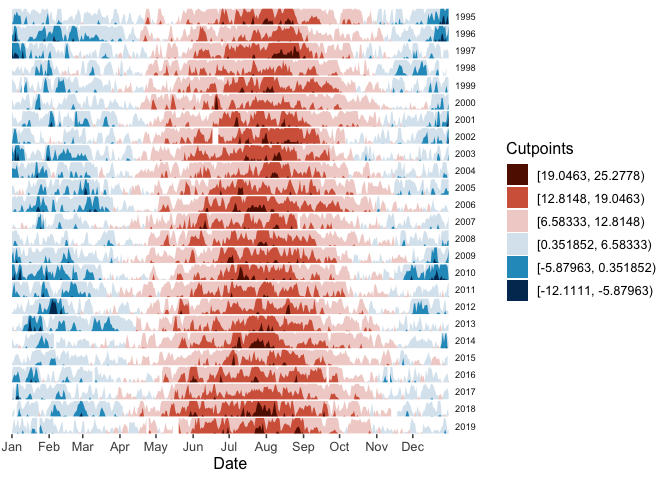
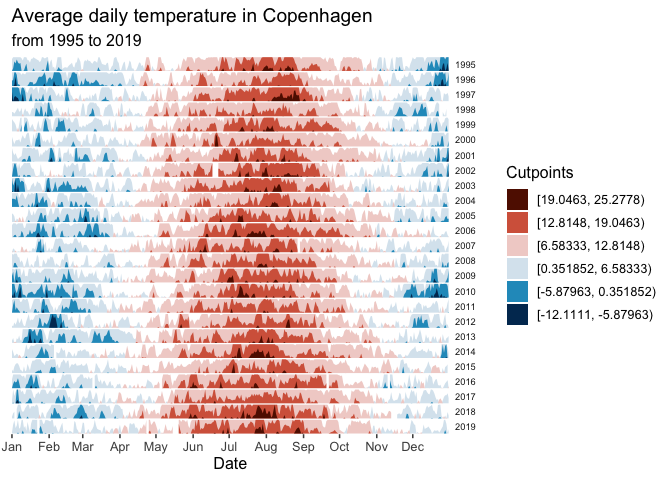
Add links to other vignettes in readme

diff --git a/docs/index.html b/docs/index.html
@@ -97,33 +97,38 @@
 <div id="basic-example" class="section level2">
 <h2 class="hasAnchor">
 <a href="#basic-example" class="anchor"></a>Basic example</h2>
+<p>Load the libraries:</p>
 <div class="sourceCode" id="cb2"><pre class="downlit sourceCode r">
 <code class="sourceCode R"><span class="kw"><a href="https://rdrr.io/r/base/library.html">library</a></span><span class="op">(</span><span class="va"><a href="https://tidyverse.tidyverse.org">tidyverse</a></span><span class="op">)</span>
-<span class="co">#&gt; ── Attaching packages ─────────────────────────────────────── tidyverse 1.3.1 ──</span>
-<span class="co">#&gt; ✓ ggplot2 3.3.5     ✓ purrr   0.3.4</span>
-<span class="co">#&gt; ✓ tibble  3.1.4     ✓ dplyr   1.0.5</span>
-<span class="co">#&gt; ✓ tidyr   1.1.3     ✓ stringr 1.4.0</span>
-<span class="co">#&gt; ✓ readr   2.0.1     ✓ forcats 0.5.1</span>
-<span class="co">#&gt; ── Conflicts ────────────────────────────────────────── tidyverse_conflicts() ──</span>
-<span class="co">#&gt; x dplyr::filter() masks stats::filter()</span>
-<span class="co">#&gt; x dplyr::lag()    masks stats::lag()</span>
 <span class="kw"><a href="https://rdrr.io/r/base/library.html">library</a></span><span class="op">(</span><span class="va"><a href="https://rivasiker.github.io/ggHoriPlot/">ggHoriPlot</a></span><span class="op">)</span> 
-<span class="kw"><a href="https://rdrr.io/r/base/library.html">library</a></span><span class="op">(</span><span class="va"><a href="https://github.com/jrnold/ggthemes">ggthemes</a></span><span class="op">)</span>
-
-<span class="fu">utils</span><span class="fu">::</span><span class="fu"><a href="https://rdrr.io/r/utils/data.html">data</a></span><span class="op">(</span><span class="va">climate_CPH</span><span class="op">)</span>
+<span class="kw"><a href="https://rdrr.io/r/base/library.html">library</a></span><span class="op">(</span><span class="va"><a href="https://github.com/jrnold/ggthemes">ggthemes</a></span><span class="op">)</span></code></pre></div>
+<p>Load the dataset and calculate the cutpoints and origin:</p>
+<div class="sourceCode" id="cb3"><pre class="downlit sourceCode r">
+<code class="sourceCode R"><span class="fu">utils</span><span class="fu">::</span><span class="fu"><a href="https://rdrr.io/r/utils/data.html">data</a></span><span class="op">(</span><span class="va">climate_CPH</span><span class="op">)</span>
 
 <span class="va">cutpoints</span> <span class="op">&lt;-</span> <span class="va">climate_CPH</span>  <span class="op">%&gt;%</span> 
   <span class="fu">mutate</span><span class="op">(</span>
     outlier <span class="op">=</span> <span class="fu">between</span><span class="op">(</span>
       <span class="va">AvgTemperature</span>, 
-      <span class="fu"><a href="https://rdrr.io/r/stats/quantile.html">quantile</a></span><span class="op">(</span><span class="va">AvgTemperature</span>, <span class="fl">0.25</span>, na.rm<span class="op">=</span><span class="cn">T</span><span class="op">)</span><span class="op">-</span><span class="fl">1.5</span><span class="op">*</span><span class="fu"><a href="https://rdrr.io/r/stats/IQR.html">IQR</a></span><span class="op">(</span><span class="va">AvgTemperature</span>, na.rm<span class="op">=</span><span class="cn">T</span><span class="op">)</span>,
-      <span class="fu"><a href="https://rdrr.io/r/stats/quantile.html">quantile</a></span><span class="op">(</span><span class="va">AvgTemperature</span>, <span class="fl">0.75</span>, na.rm<span class="op">=</span><span class="cn">T</span><span class="op">)</span><span class="op">+</span><span class="fl">1.5</span><span class="op">*</span><span class="fu"><a href="https://rdrr.io/r/stats/IQR.html">IQR</a></span><span class="op">(</span><span class="va">AvgTemperature</span>, na.rm<span class="op">=</span><span class="cn">T</span><span class="op">)</span><span class="op">)</span><span class="op">)</span> <span class="op">%&gt;%</span> 
+      <span class="fu"><a href="https://rdrr.io/r/stats/quantile.html">quantile</a></span><span class="op">(</span><span class="va">AvgTemperature</span>, <span class="fl">0.25</span>, na.rm<span class="op">=</span><span class="cn">T</span><span class="op">)</span><span class="op">-</span>
+        <span class="fl">1.5</span><span class="op">*</span><span class="fu"><a href="https://rdrr.io/r/stats/IQR.html">IQR</a></span><span class="op">(</span><span class="va">AvgTemperature</span>, na.rm<span class="op">=</span><span class="cn">T</span><span class="op">)</span>,
+      <span class="fu"><a href="https://rdrr.io/r/stats/quantile.html">quantile</a></span><span class="op">(</span><span class="va">AvgTemperature</span>, <span class="fl">0.75</span>, na.rm<span class="op">=</span><span class="cn">T</span><span class="op">)</span><span class="op">+</span>
+        <span class="fl">1.5</span><span class="op">*</span><span class="fu"><a href="https://rdrr.io/r/stats/IQR.html">IQR</a></span><span class="op">(</span><span class="va">AvgTemperature</span>, na.rm<span class="op">=</span><span class="cn">T</span><span class="op">)</span><span class="op">)</span><span class="op">)</span> <span class="op">%&gt;%</span> 
   <span class="fu"><a href="https://rdrr.io/r/stats/filter.html">filter</a></span><span class="op">(</span><span class="va">outlier</span><span class="op">)</span>
 
-<span class="va">ori</span> <span class="op">=</span> <span class="fu"><a href="https://rdrr.io/r/base/sum.html">sum</a></span><span class="op">(</span><span class="fu"><a href="https://rdrr.io/r/base/range.html">range</a></span><span class="op">(</span><span class="va">cutpoints</span><span class="op">$</span><span class="va">AvgTemperature</span><span class="op">)</span><span class="op">)</span><span class="op">/</span><span class="fl">2</span>
-<span class="va">sca</span> <span class="op">&lt;-</span> <span class="fu"><a href="https://rdrr.io/r/base/seq.html">seq</a></span><span class="op">(</span><span class="fu"><a href="https://rdrr.io/r/base/range.html">range</a></span><span class="op">(</span><span class="va">cutpoints</span><span class="op">$</span><span class="va">AvgTemperature</span><span class="op">)</span><span class="op">[</span><span class="fl">1</span><span class="op">]</span>, <span class="fu"><a href="https://rdrr.io/r/base/range.html">range</a></span><span class="op">(</span><span class="va">cutpoints</span><span class="op">$</span><span class="va">AvgTemperature</span><span class="op">)</span><span class="op">[</span><span class="fl">2</span><span class="op">]</span>, length.out <span class="op">=</span> <span class="fl">7</span><span class="op">)</span><span class="op">[</span><span class="op">-</span><span class="fl">4</span><span class="op">]</span>
+<span class="va">ori</span> <span class="op">&lt;-</span> <span class="fu"><a href="https://rdrr.io/r/base/sum.html">sum</a></span><span class="op">(</span><span class="fu"><a href="https://rdrr.io/r/base/range.html">range</a></span><span class="op">(</span><span class="va">cutpoints</span><span class="op">$</span><span class="va">AvgTemperature</span><span class="op">)</span><span class="op">)</span><span class="op">/</span><span class="fl">2</span>
+<span class="va">sca</span> <span class="op">&lt;-</span> <span class="fu"><a href="https://rdrr.io/r/base/seq.html">seq</a></span><span class="op">(</span><span class="fu"><a href="https://rdrr.io/r/base/range.html">range</a></span><span class="op">(</span><span class="va">cutpoints</span><span class="op">$</span><span class="va">AvgTemperature</span><span class="op">)</span><span class="op">[</span><span class="fl">1</span><span class="op">]</span>, 
+           <span class="fu"><a href="https://rdrr.io/r/base/range.html">range</a></span><span class="op">(</span><span class="va">cutpoints</span><span class="op">$</span><span class="va">AvgTemperature</span><span class="op">)</span><span class="op">[</span><span class="fl">2</span><span class="op">]</span>, 
+           length.out <span class="op">=</span> <span class="fl">7</span><span class="op">)</span><span class="op">[</span><span class="op">-</span><span class="fl">4</span><span class="op">]</span>
 
-<span class="va">climate_CPH</span> <span class="op">%&gt;%</span> <span class="fu">ggplot</span><span class="op">(</span><span class="op">)</span> <span class="op">+</span>
+<span class="fu"><a href="https://rdrr.io/r/base/Round.html">round</a></span><span class="op">(</span><span class="va">ori</span>, <span class="fl">2</span><span class="op">)</span> <span class="co"># The origin</span>
+<span class="co">#&gt; [1] 6.58</span>
+
+<span class="fu"><a href="https://rdrr.io/r/base/Round.html">round</a></span><span class="op">(</span><span class="va">sca</span>, <span class="fl">2</span><span class="op">)</span> <span class="co"># The horizon scale cutpoints</span>
+<span class="co">#&gt; [1] -12.11  -5.88   0.35  12.81  19.05  25.28</span></code></pre></div>
+<p>Build the horizon plots in <code>ggplot2</code> using <code>geom_horizon</code>:</p>
+<div class="sourceCode" id="cb4"><pre class="downlit sourceCode r">
+<code class="sourceCode R"><span class="va">climate_CPH</span> <span class="op">%&gt;%</span> <span class="fu">ggplot</span><span class="op">(</span><span class="op">)</span> <span class="op">+</span>
   <span class="fu"><a href="reference/geom_horizon.html">geom_horizon</a></span><span class="op">(</span><span class="fu">aes</span><span class="op">(</span><span class="va">date_mine</span>, 
                    <span class="va">AvgTemperature</span>,
                    fill <span class="op">=</span> <span class="va">..Cutpoints..</span><span class="op">)</span>, 
@@ -139,9 +144,22 @@
     axis.ticks.y <span class="op">=</span> <span class="fu">element_blank</span><span class="op">(</span><span class="op">)</span>,
     panel.border <span class="op">=</span> <span class="fu">element_blank</span><span class="op">(</span><span class="op">)</span>
     <span class="op">)</span> <span class="op">+</span>
-  <span class="fu">scale_x_date</span><span class="op">(</span>expand<span class="op">=</span><span class="fu"><a href="https://rdrr.io/r/base/c.html">c</a></span><span class="op">(</span><span class="fl">0</span>,<span class="fl">0</span><span class="op">)</span>, date_breaks <span class="op">=</span> <span class="st">"1 month"</span>, date_labels <span class="op">=</span> <span class="st">"%b"</span><span class="op">)</span> <span class="op">+</span>
-  <span class="fu">xlab</span><span class="op">(</span><span class="st">'Date'</span><span class="op">)</span></code></pre></div>
+  <span class="fu">scale_x_date</span><span class="op">(</span>expand<span class="op">=</span><span class="fu"><a href="https://rdrr.io/r/base/c.html">c</a></span><span class="op">(</span><span class="fl">0</span>,<span class="fl">0</span><span class="op">)</span>, 
+               date_breaks <span class="op">=</span> <span class="st">"1 month"</span>, 
+               date_labels <span class="op">=</span> <span class="st">"%b"</span><span class="op">)</span> <span class="op">+</span>
+  <span class="fu">xlab</span><span class="op">(</span><span class="st">'Date'</span><span class="op">)</span> <span class="op">+</span>
+  <span class="fu">ggtitle</span><span class="op">(</span><span class="st">'Average daily temperature in Copenhagen'</span>, 
+          <span class="st">'from 1995 to 2019'</span><span class="op">)</span></code></pre></div>
 <p><img src="reference/figures/CPH_climate-1.png"><!-- --></p>
+</div>
+<div id="learn-more" class="section level2">
+<h2 class="hasAnchor">
+<a href="#learn-more" class="anchor"></a>Learn more</h2>
+<p>You can check out the full functionality of <code>ggHoriPlot</code> in the following guides:</p>
+<ul>
+<li><a href="https://rivasiker.github.io/ggHoriPlot/articles/ggHoriPlot.html">Getting started</a></li>
+<li><a href="https://rivasiker.github.io/ggHoriPlot/articles/examples.html">Examples with real data</a></li>
+</ul>
 </div>
 </div>
   </div>

diff --git a/README.md b/README.md
@@ -20,32 +20,44 @@ following command:
 
 ## Basic example
 
+Load the libraries:
+
 ``` r
 library(tidyverse)
-#> ── Attaching packages ─────────────────────────────────────── tidyverse 1.3.1 ──
-#> ✓ ggplot2 3.3.5     ✓ purrr   0.3.4
-#> ✓ tibble  3.1.4     ✓ dplyr   1.0.5
-#> ✓ tidyr   1.1.3     ✓ stringr 1.4.0
-#> ✓ readr   2.0.1     ✓ forcats 0.5.1
-#> ── Conflicts ────────────────────────────────────────── tidyverse_conflicts() ──
-#> x dplyr::filter() masks stats::filter()
-#> x dplyr::lag()    masks stats::lag()
 library(ggHoriPlot) 
 library(ggthemes)
+```
 
+Load the dataset and calculate the cutpoints and origin:
+
+``` r
 utils::data(climate_CPH)
 
 cutpoints <- climate_CPH  %>% 
   mutate(
     outlier = between(
       AvgTemperature, 
-      quantile(AvgTemperature, 0.25, na.rm=T)-1.5*IQR(AvgTemperature, na.rm=T),
-      quantile(AvgTemperature, 0.75, na.rm=T)+1.5*IQR(AvgTemperature, na.rm=T))) %>% 
+      quantile(AvgTemperature, 0.25, na.rm=T)-
+        1.5*IQR(AvgTemperature, na.rm=T),
+      quantile(AvgTemperature, 0.75, na.rm=T)+
+        1.5*IQR(AvgTemperature, na.rm=T))) %>% 
   filter(outlier)
 
-ori = sum(range(cutpoints$AvgTemperature))/2
-sca <- seq(range(cutpoints$AvgTemperature)[1], range(cutpoints$AvgTemperature)[2], length.out = 7)[-4]
+ori <- sum(range(cutpoints$AvgTemperature))/2
+sca <- seq(range(cutpoints$AvgTemperature)[1], 
+           range(cutpoints$AvgTemperature)[2], 
+           length.out = 7)[-4]
 
+round(ori, 2) # The origin
+#> [1] 6.58
+
+round(sca, 2) # The horizon scale cutpoints
+#> [1] -12.11  -5.88   0.35  12.81  19.05  25.28
+```
+
+Build the horizon plots in `ggplot2` using `geom_horizon`:
+
+``` r
 climate_CPH %>% ggplot() +
   geom_horizon(aes(date_mine, 
                    AvgTemperature,
@@ -62,8 +74,22 @@ climate_CPH %>% ggplot() +
     axis.ticks.y = element_blank(),
     panel.border = element_blank()
     ) +
-  scale_x_date(expand=c(0,0), date_breaks = "1 month", date_labels = "%b") +
-  xlab('Date')
+  scale_x_date(expand=c(0,0), 
+               date_breaks = "1 month", 
+               date_labels = "%b") +
+  xlab('Date') +
+  ggtitle('Average daily temperature in Copenhagen', 
+          'from 1995 to 2019')
 ```
 
 ![](man/figures/CPH_climate-1.png)<!-- -->
+
+## Learn more
+
+You can check out the full functionality of `ggHoriPlot` in the
+following guides:
+
+-   [Getting
+    started](https://rivasiker.github.io/ggHoriPlot/articles/ggHoriPlot.html)
+-   [Examples with real
+    data](https://rivasiker.github.io/ggHoriPlot/articles/examples.html)
